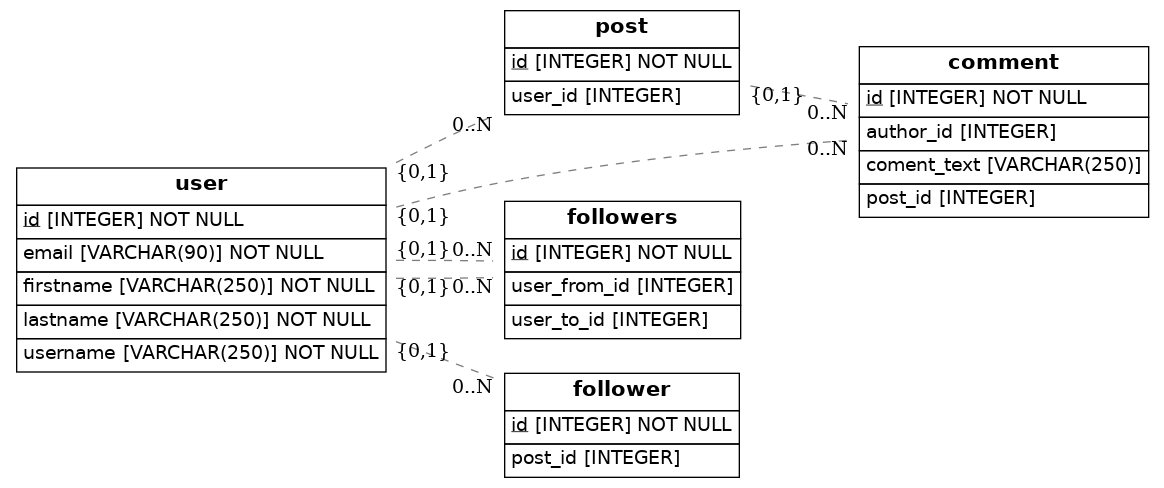
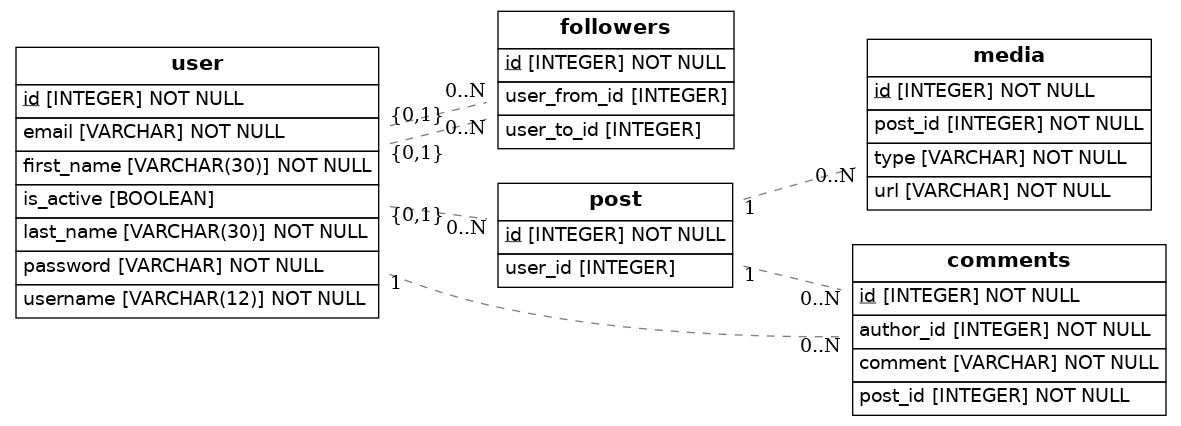
models

Changed region(s): [[0.0, 0.0, 0.9897, 0.7629], [0.6804, 0.5493, 0.9897, 0.9765], [0.4021, 0.7324, 0.6495, 1.0]]

diff --git a/src/models.py b/src/models.py
@@ -1,7 +1,7 @@
 import os
 import sys
-from sqlalchemy import Column, ForeignKey, Integer, String
-from sqlalchemy.orm import relationship, declarative_base
+from sqlalchemy import Column, ForeignKey, Integer, String, Boolean, Table
+from sqlalchemy.orm import relationship, declarative_base, DeclarativeBase
 from sqlalchemy import create_engine
 from eralchemy2 import render_er
 
@@ -9,59 +9,53 @@ Base = declarative_base()
 
 
 class User(Base):
-    __tablename__ = 'user'
+    __tablename__ = "user"
     id = Column(Integer, primary_key=True)
-    username = Column(String(250), nullable=False)
-    firstname = Column(String(250), nullable=False)
-    lastname = Column(String(250), nullable=False)
-    email = Column(String(90), unique=True, nullable=False)
-    relacion_posts= relationship("post", backref="user", lazy=True)
-    relacion_commnet= relationship("commnet", backref="user", lazy=True)
-    relacion_followers= relationship("followers", backref="user", lazy=True)
-    relacion_media= relationship("media", backref="user", lazy=True)
-    
+    username = Column(String(12), nullable=False, unique=True)
+    first_name = Column(String(30), nullable=False)
+    last_name = Column(String(30), nullable=False)
+    email = Column(String, nullable=False, unique=True)
+    password = Column(String, nullable=False)
+    is_active = Column(Boolean, default=False)
 
+
+followers = Table(
+    "followers",
+    Base.metadata,
+    Column("id", Integer, primary_key=True),
+    Column("user_from_id", ForeignKey("user.id")),
+    Column("user_to_id", ForeignKey("user.id")),
+)
 
 
 class Post(Base):
-     __tablename__ = 'post'
-     id = Column(Integer, primary_key=True)
-     user_id = Column(Integer, ForeignKey('user.id'))
-     relacion_comment= relationship("comment", backref="user", lazy=True)
-
-class Comment (Base):
-        __tablename__ = 'comment'
-        id=Column (Integer, primary_key=True)
-        coment_text=Column(String(250))
-        author_id=Column(Integer, ForeignKey("user.id"))
-        post_id = Column(Integer, ForeignKey("post.id"))
-
-class Followers(Base):
-         __tablename__ = 'followers'
-         id=Column(Integer, primary_key=True)
-         user_from_id=Column(Integer, ForeignKey("user.id"))
-         user_to_id=Column(Integer, ForeignKey("user.id"))
-
-class Media (Base):
-        __tablename__ = 'follower'
-        id=Column(Integer, primary_key=True)
-        post_id=Column(Integer, ForeignKey("user.id"))
-
-    
+    __tablename__ = "post"
+    id = Column(Integer, primary_key=True)
+    user_id = Column(ForeignKey("user.id"))
 
 
-   
-   
+class Media(Base):
+    __tablename__ = "media"
+    id = Column(Integer, primary_key=True)
+    post_id = Column(ForeignKey("post.id"), nullable=False)
+    url = Column(String, nullable=False)
+    type = Column(String, nullable=False)
 
-    
 
-def to_dict(self):
-        return {}
+comments = Table(
+    "comments",
+    Base.metadata,
+    Column("id", Integer, primary_key=True),
+    Column("comment", String, nullable=False),
+    Column("post_id", ForeignKey("post.id"), nullable=False),
+    Column("author_id", ForeignKey("user.id"), nullable=False),
+)
+
 
 ## Draw from SQLAlchemy base
 try:
-    result = render_er(Base, 'diagram.png')
+    result = render_er(Base, "diagram.png")
     print("Success! Check the diagram.png file")
 except Exception as e:
     print("There was a problem genering the diagram")
-    raise e
+    raise 
